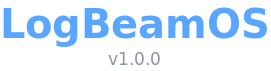
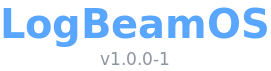
LogBeamOS 1.0.0-1: «Programas instalados» deixa de bloquear o Gestor de Programas; a página de um Flatpak por instalar já abre
«Programas instalados» perguntava ao motor de instalação, uma a uma, pelas cerca de 41 000 entradas do catálogo, no ciclo da janela (1 min 45 s bloqueada na VM, com 1018 pacotes na lista, peças do sistema incluídas). Passa a mostrar os programas de rádio instalados e, a seguir, os pacotes com entrada no menu (uma só pergunta ao dpkg) e os Flatpak instalados: menos de 2 s, 64 programas. A página de um Flatpak não instalado não abria porque o motor dá erro ao pedir a versão instalada de um Flatpak que não está instalado; a versão só se pede quando está instalado, e a linha «Versão» não aparece vazia. «Abrir» num Flatpak usa o atalho do próprio programa, como o menu (o mpv sem ficheiro não abria janela com flatpak run). Explicação do «Instalar tudo» e manual (secção 4) corrigidos nas 4 línguas.

Changed region(s): [[0.3542, 0.7324, 0.6199, 0.9296]]

diff --git a/usr/share/logbeamos/manual/manual-fr.html b/usr/share/logbeamos/manual/manual-fr.html
@@ -84,11 +84,11 @@
 <section id="gestor">
 <h2>4. Installer et supprimer des logiciels</h2>
 <ul>
-  <li>Le <strong>Gestionnaire de logiciels LogBeamOS</strong> recherche, installe et supprime des logiciels. Il remplace le Gestionnaire de logiciels de Linux Mint : il sert pour les logiciels radio et pour tous les autres.</li>
+  <li>Le <strong>Gestionnaire de logiciels LogBeamOS</strong> recherche, installe et supprime des logiciels : les logiciels radio et tous les autres.</li>
   <li>La page d'accueil présente les <strong>Logiciels Radioamateur</strong>, par groupes (modes numériques, carnets de trafic et concours, SDR, satellites, APRS et Winlink, voix numérique, radio et utilitaires), chacun avec son état. <em>Autres logiciels radio</em> regroupe les autres logiciels radio d'Ubuntu.</li>
-  <li>Plus bas se trouvent les autres catégories, comme dans Linux Mint : Internet, son et vidéo, graphisme, bureautique, jeux, Flatpak, logiciels installés et d'autres. La recherche, en haut, trouve n'importe quel logiciel par son nom ou sa description.</li>
+  <li>Plus bas se trouvent les autres catégories : Internet, son et vidéo, graphisme, bureautique, jeux, Flatpak, logiciels installés et d'autres. La recherche, en haut, trouve n'importe quel logiciel par son nom ou sa description.</li>
   <li>Chaque logiciel a sa page, avec la description, la version, la source, l'espace occupé et les boutons <em>Installer</em>, <em>Supprimer</em> et <em>Ouvrir</em>.</li>
-  <li><strong>Logiciels à la demande :</strong> qdmr, SatDump, Not1MM, Gqrx, GNU Radio, GridTracker2, Decodium et wfview ne sont pas installés, pour que l'image soit plus petite, mais leur icône est dans le menu et dans le dossier <strong>Logiciels Radioamateur</strong>. Un clic dessus demande s'il faut l'installer. Le bouton <em>Tout installer</em> les installe tous d'un coup : utile pour préparer la clé USB à la maison, avant une sortie sans réseau.</li>
+  <li><strong>Logiciels à la demande :</strong> qdmr, SatDump, Not1MM, Gqrx, GNU Radio, GridTracker2, Decodium et wfview ne sont pas installés, pour que l'image soit plus petite, mais leur icône est dans le menu et dans le dossier <strong>Logiciels Radioamateur</strong>. Un clic dessus demande s'il faut l'installer. Le bouton <em>Tout installer</em> les installe tous d'un coup, pour qu'ils soient disponibles même sans connexion à Internet.</li>
   <li>Quand un logiciel radio est supprimé, son lanceur quitte le menu et le dossier (les logiciels à la demande gardent leur icône). Pour 4ham, les données et les réglages sont conservés dans <code>/var/lib/logbeamos/guardado</code>.</li>
   <li>N1MM+, Log4OM et WIRES-X (logiciels Windows, via Wine) se suppriment aussi ici. Pour les réinstaller, l'installateur se télécharge sur le site officiel et le gestionnaire l'installe dans Wine.</li>
   <li>Dans le menu, <em>Désinstaller</em> sur un logiciel radio ouvre le gestionnaire sur la page de ce logiciel. Les outils de LogBeamOS (Mettre à jour, Radio et Matériel, ce manuel, TQSL) font partie du système et ne peuvent pas être supprimés.</li>

diff --git a/usr/share/logbeamos/manual/manual-es.html b/usr/share/logbeamos/manual/manual-es.html
@@ -84,11 +84,11 @@
 <section id="gestor">
 <h2>4. Instalar y eliminar programas</h2>
 <ul>
-  <li>El <strong>Gestor de Programas LogBeamOS</strong> busca, instala y elimina programas. Sustituye al Gestor de Programas de Linux Mint: sirve para los programas de radio y para todo el demás software.</li>
+  <li>El <strong>Gestor de Programas LogBeamOS</strong> busca, instala y elimina programas: los programas de radio y todo el demás software.</li>
   <li>En la página de inicio están los <strong>Programas de Radioaficionado</strong>, por grupos (modos digitales, registro y concursos, SDR, satélites, APRS y Winlink, voz digital, radio y utilidades), cada uno con su estado. En <em>Otros programas de radio</em> están los demás programas de radio de Ubuntu.</li>
-  <li>Más abajo están las demás categorías, como en Linux Mint: Internet, sonido y vídeo, gráficos, oficina, juegos, Flatpak, programas instalados y otras. La búsqueda, arriba, encuentra cualquier programa por su nombre o su descripción.</li>
+  <li>Más abajo están las demás categorías: Internet, sonido y vídeo, gráficos, oficina, juegos, Flatpak, programas instalados y otras. La búsqueda, arriba, encuentra cualquier programa por su nombre o su descripción.</li>
   <li>Cada programa tiene su página, con la descripción, la versión, el origen, el espacio que ocupa y los botones <em>Instalar</em>, <em>Eliminar</em> y <em>Abrir</em>.</li>
-  <li><strong>Programas bajo demanda:</strong> qdmr, SatDump, Not1MM, Gqrx, GNU Radio, GridTracker2, Decodium y wfview no vienen instalados, para que la imagen sea más pequeña, pero su icono está en el menú y en la carpeta <strong>Programas de Radioaficionado</strong>. Al pulsarlo, se pregunta si quiere instalarlo. El botón <em>Instalar todo</em> los instala todos de una vez: sirve para preparar el USB en casa, antes de salir sin red.</li>
+  <li><strong>Programas bajo demanda:</strong> qdmr, SatDump, Not1MM, Gqrx, GNU Radio, GridTracker2, Decodium y wfview no vienen instalados, para que la imagen sea más pequeña, pero su icono está en el menú y en la carpeta <strong>Programas de Radioaficionado</strong>. Al pulsarlo, se pregunta si quiere instalarlo. El botón <em>Instalar todo</em> los instala todos de una sola vez, para que estén disponibles incluso sin conexión a Internet.</li>
   <li>Al eliminar un programa de radio, el acceso directo sale del menú y de la carpeta (los programas bajo demanda mantienen su icono). En 4ham, los datos y la configuración se guardan en <code>/var/lib/logbeamos/guardado</code>.</li>
   <li>N1MM+, Log4OM y WIRES-X (programas de Windows, mediante Wine) también se eliminan aquí. Para volver a instalarlos, el instalador se descarga del sitio web oficial y el gestor lo instala en Wine.</li>
   <li>En el menú, <em>Desinstalar</em> en un programa de radio abre el gestor en la página de ese programa. Las herramientas de LogBeamOS (Actualizar, Radio y Equipo, este manual, TQSL) forman parte del sistema y no se eliminan.</li>

diff --git a/usr/share/logbeamos/manual/manual-pt.html b/usr/share/logbeamos/manual/manual-pt.html
@@ -84,11 +84,11 @@
 <section id="gestor">
 <h2>4. Instalar e remover programas</h2>
 <ul>
-  <li>O <strong>Gestor de Programas LogBeamOS</strong> procura, instala e remove programas. Substitui o Gestor de Programas do Linux Mint: serve para os programas de rádio e para todo o outro software.</li>
+  <li>O <strong>Gestor de Programas LogBeamOS</strong> procura, instala e remove programas: os programas de rádio e todo o outro software.</li>
   <li>Na página de entrada estão os <strong>Programas Radioamador</strong>, por grupos (modos digitais, logs e concursos, SDR, satélites, APRS e Winlink, voz digital, rádio e utilitários), cada um com o seu estado. Em <em>Outros programas de rádio</em> estão os restantes programas de rádio do Ubuntu.</li>
-  <li>Mais abaixo estão as outras categorias, como no Linux Mint: Internet, som e vídeo, gráficos, escritório, jogos, Flatpak, programas instalados, e outras. A procura, no topo, encontra qualquer programa pelo nome ou pela descrição.</li>
+  <li>Mais abaixo estão as outras categorias: Internet, som e vídeo, gráficos, escritório, jogos, Flatpak, programas instalados, e outras. A procura, no topo, encontra qualquer programa pelo nome ou pela descrição.</li>
   <li>Cada programa tem a sua página, com a descrição, a versão, a origem, o espaço que ocupa e os botões <em>Instalar</em>, <em>Remover</em> e <em>Abrir</em>.</li>
-  <li><strong>Programas a pedido:</strong> o qdmr, o SatDump, o Not1MM, o Gqrx, o GNU Radio, o GridTracker2, o Decodium e o wfview não vêm instalados, para a imagem ser mais pequena, mas o ícone está no menu e na pasta <strong>Programas Radioamador</strong>. Ao carregar nele, é perguntado se quer instalá-lo. O botão <em>Instalar tudo</em> instala-os todos de uma vez: serve para preparar a pen em casa, antes de uma saída sem rede.</li>
+  <li><strong>Programas a pedido:</strong> o qdmr, o SatDump, o Not1MM, o Gqrx, o GNU Radio, o GridTracker2, o Decodium e o wfview não vêm instalados, para a imagem ser mais pequena, mas o ícone está no menu e na pasta <strong>Programas Radioamador</strong>. Ao carregar nele, é perguntado se quer instalá-lo. O botão <em>Instalar tudo</em> instala-os todos de uma só vez, para ficarem disponíveis mesmo sem ligação à Internet.</li>
   <li>Ao remover um programa de rádio, o atalho sai do menu e da pasta (os programas a pedido mantêm o ícone). No 4ham, os dados e as definições ficam guardados em <code>/var/lib/logbeamos/guardado</code>.</li>
   <li>O N1MM+, o Log4OM e o WIRES-X (programas do Windows, através do Wine) também se removem aqui. Para os instalar de novo, o instalador descarrega-se do site oficial e o Gestor instala-o no Wine.</li>
   <li>No menu, <em>Desinstalar</em> num programa de rádio abre o Gestor na página desse programa. As ferramentas do LogBeamOS (Actualizar, Rádio e Equipamento, este manual, TQSL) fazem parte do sistema e não se removem.</li>

diff --git a/usr/share/logbeamos/manual/manual-en.html b/usr/share/logbeamos/manual/manual-en.html
@@ -84,11 +84,11 @@
 <section id="gestor">
 <h2>4. Installing and removing programs</h2>
 <ul>
-  <li>The <strong>LogBeamOS Software Manager</strong> searches for, installs and removes programs. It replaces the Linux Mint Software Manager: it is for the radio programs and for all the other software.</li>
+  <li>The <strong>LogBeamOS Software Manager</strong> searches for, installs and removes programs: the radio programs and all the other software.</li>
   <li>The home page shows the <strong>Ham Radio Programs</strong>, in groups (digital modes, logging and contests, SDR, satellites, APRS and Winlink, digital voice, radio and utilities), each with its state. <em>Other radio programs</em> holds the remaining radio programs of Ubuntu.</li>
-  <li>Further down are the other categories, as in Linux Mint: Internet, sound and video, graphics, office, games, Flatpak, installed programs and more. The search, at the top, finds any program by its name or description.</li>
+  <li>Further down are the other categories: Internet, sound and video, graphics, office, games, Flatpak, installed programs and more. The search, at the top, finds any program by its name or description.</li>
   <li>Each program has its own page, with its description, version, source, the space it takes and the <em>Install</em>, <em>Remove</em> and <em>Open</em> buttons.</li>
-  <li><strong>On-demand programs:</strong> qdmr, SatDump, Not1MM, Gqrx, GNU Radio, GridTracker2, Decodium and wfview are not installed, so that the image is smaller, but their icon is in the menu and in the <strong>Ham Radio Programs</strong> folder. Clicking it asks whether to install the program. The <em>Install all</em> button installs all of them at once: useful to get the USB drive ready at home, before going out without a network.</li>
+  <li><strong>On-demand programs:</strong> qdmr, SatDump, Not1MM, Gqrx, GNU Radio, GridTracker2, Decodium and wfview are not installed, so that the image is smaller, but their icon is in the menu and in the <strong>Ham Radio Programs</strong> folder. Clicking it asks whether to install the program. The <em>Install all</em> button installs all of them at once, so that they are available even without an Internet connection.</li>
   <li>When a radio program is removed, its launcher leaves the menu and the folder (the on-demand programs keep their icon). For 4ham, the data and settings are kept in <code>/var/lib/logbeamos/guardado</code>.</li>
   <li>N1MM+, Log4OM and WIRES-X (Windows programs, through Wine) are removed here too. To install them again, the installer is downloaded from the official website and the manager installs it into Wine.</li>
   <li>In the menu, <em>Uninstall</em> on a radio program opens the manager on that program's page. The LogBeamOS tools (Update, Radio and Equipment, this manual, TQSL) are part of the system and cannot be removed.</li>

diff --git a/docs/manual/manual-fr.md b/docs/manual/manual-fr.md
@@ -8,7 +8,7 @@
 
 *Distribution Linux pour radioamateurs*
 
-C'est le manuel fourni avec LogBeamOS (LogBeamOS Update 1.0.0).
+C'est le manuel fourni avec LogBeamOS (LogBeamOS Update 1.0.0-1).
 
 [Português](manual-pt.md) · [English](manual-en.md) · [Español](manual-es.md) · **Français**
 
@@ -67,11 +67,11 @@ C'est le manuel fourni avec LogBeamOS (LogBeamOS Update 1.0.0).
 
 ## 4. Installer et supprimer des logiciels
 
-- Le **Gestionnaire de logiciels LogBeamOS** recherche, installe et supprime des logiciels. Il remplace le Gestionnaire de logiciels de Linux Mint : il sert pour les logiciels radio et pour tous les autres.
+- Le **Gestionnaire de logiciels LogBeamOS** recherche, installe et supprime des logiciels : les logiciels radio et tous les autres.
 - La page d'accueil présente les **Logiciels Radioamateur**, par groupes (modes numériques, carnets de trafic et concours, SDR, satellites, APRS et Winlink, voix numérique, radio et utilitaires), chacun avec son état. *Autres logiciels radio* regroupe les autres logiciels radio d'Ubuntu.
-- Plus bas se trouvent les autres catégories, comme dans Linux Mint : Internet, son et vidéo, graphisme, bureautique, jeux, Flatpak, logiciels installés et d'autres. La recherche, en haut, trouve n'importe quel logiciel par son nom ou sa description.
+- Plus bas se trouvent les autres catégories : Internet, son et vidéo, graphisme, bureautique, jeux, Flatpak, logiciels installés et d'autres. La recherche, en haut, trouve n'importe quel logiciel par son nom ou sa description.
 - Chaque logiciel a sa page, avec la description, la version, la source, l'espace occupé et les boutons *Installer*, *Supprimer* et *Ouvrir*.
-- **Logiciels à la demande :** qdmr, SatDump, Not1MM, Gqrx, GNU Radio, GridTracker2, Decodium et wfview ne sont pas installés, pour que l'image soit plus petite, mais leur icône est dans le menu et dans le dossier **Logiciels Radioamateur**. Un clic dessus demande s'il faut l'installer. Le bouton *Tout installer* les installe tous d'un coup : utile pour préparer la clé USB à la maison, avant une sortie sans réseau.
+- **Logiciels à la demande :** qdmr, SatDump, Not1MM, Gqrx, GNU Radio, GridTracker2, Decodium et wfview ne sont pas installés, pour que l'image soit plus petite, mais leur icône est dans le menu et dans le dossier **Logiciels Radioamateur**. Un clic dessus demande s'il faut l'installer. Le bouton *Tout installer* les installe tous d'un coup, pour qu'ils soient disponibles même sans connexion à Internet.
 - Quand un logiciel radio est supprimé, son lanceur quitte le menu et le dossier (les logiciels à la demande gardent leur icône). Pour 4ham, les données et les réglages sont conservés dans `/var/lib/logbeamos/guardado`.
 - N1MM+, Log4OM et WIRES-X (logiciels Windows, via Wine) se suppriment aussi ici. Pour les réinstaller, l'installateur se télécharge sur le site officiel et le gestionnaire l'installe dans Wine.
 - Dans le menu, *Désinstaller* sur un logiciel radio ouvre le gestionnaire sur la page de ce logiciel. Les outils de LogBeamOS (Mettre à jour, Radio et Matériel, ce manuel, TQSL) font partie du système et ne peuvent pas être supprimés.

diff --git a/docs/manual/manual-es.md b/docs/manual/manual-es.md
@@ -8,7 +8,7 @@
 
 *Distribución Linux para radioaficionados*
 
-Este es el manual que acompaña a LogBeamOS (LogBeamOS Update 1.0.0).
+Este es el manual que acompaña a LogBeamOS (LogBeamOS Update 1.0.0-1).
 
 [Português](manual-pt.md) · [English](manual-en.md) · **Español** · [Français](manual-fr.md)
 
@@ -67,11 +67,11 @@ Este es el manual que acompaña a LogBeamOS (LogBeamOS Update 1.0.0).
 
 ## 4. Instalar y eliminar programas
 
-- El **Gestor de Programas LogBeamOS** busca, instala y elimina programas. Sustituye al Gestor de Programas de Linux Mint: sirve para los programas de radio y para todo el demás software.
+- El **Gestor de Programas LogBeamOS** busca, instala y elimina programas: los programas de radio y todo el demás software.
 - En la página de inicio están los **Programas de Radioaficionado**, por grupos (modos digitales, registro y concursos, SDR, satélites, APRS y Winlink, voz digital, radio y utilidades), cada uno con su estado. En *Otros programas de radio* están los demás programas de radio de Ubuntu.
-- Más abajo están las demás categorías, como en Linux Mint: Internet, sonido y vídeo, gráficos, oficina, juegos, Flatpak, programas instalados y otras. La búsqueda, arriba, encuentra cualquier programa por su nombre o su descripción.
+- Más abajo están las demás categorías: Internet, sonido y vídeo, gráficos, oficina, juegos, Flatpak, programas instalados y otras. La búsqueda, arriba, encuentra cualquier programa por su nombre o su descripción.
 - Cada programa tiene su página, con la descripción, la versión, el origen, el espacio que ocupa y los botones *Instalar*, *Eliminar* y *Abrir*.
-- **Programas bajo demanda:** qdmr, SatDump, Not1MM, Gqrx, GNU Radio, GridTracker2, Decodium y wfview no vienen instalados, para que la imagen sea más pequeña, pero su icono está en el menú y en la carpeta **Programas de Radioaficionado**. Al pulsarlo, se pregunta si quiere instalarlo. El botón *Instalar todo* los instala todos de una vez: sirve para preparar el USB en casa, antes de salir sin red.
+- **Programas bajo demanda:** qdmr, SatDump, Not1MM, Gqrx, GNU Radio, GridTracker2, Decodium y wfview no vienen instalados, para que la imagen sea más pequeña, pero su icono está en el menú y en la carpeta **Programas de Radioaficionado**. Al pulsarlo, se pregunta si quiere instalarlo. El botón *Instalar todo* los instala todos de una sola vez, para que estén disponibles incluso sin conexión a Internet.
 - Al eliminar un programa de radio, el acceso directo sale del menú y de la carpeta (los programas bajo demanda mantienen su icono). En 4ham, los datos y la configuración se guardan en `/var/lib/logbeamos/guardado`.
 - N1MM+, Log4OM y WIRES-X (programas de Windows, mediante Wine) también se eliminan aquí. Para volver a instalarlos, el instalador se descarga del sitio web oficial y el gestor lo instala en Wine.
 - En el menú, *Desinstalar* en un programa de radio abre el gestor en la página de ese programa. Las herramientas de LogBeamOS (Actualizar, Radio y Equipo, este manual, TQSL) forman parte del sistema y no se eliminan.

diff --git a/docs/manual/manual-pt.md b/docs/manual/manual-pt.md
@@ -8,7 +8,7 @@
 
 *Distribuição Linux para radioamadores*
 
-Este é o manual que acompanha o LogBeamOS (LogBeamOS Update 1.0.0).
+Este é o manual que acompanha o LogBeamOS (LogBeamOS Update 1.0.0-1).
 
 **Português** · [English](manual-en.md) · [Español](manual-es.md) · [Français](manual-fr.md)
 
@@ -67,11 +67,11 @@ Este é o manual que acompanha o LogBeamOS (LogBeamOS Update 1.0.0).
 
 ## 4. Instalar e remover programas
 
-- O **Gestor de Programas LogBeamOS** procura, instala e remove programas. Substitui o Gestor de Programas do Linux Mint: serve para os programas de rádio e para todo o outro software.
+- O **Gestor de Programas LogBeamOS** procura, instala e remove programas: os programas de rádio e todo o outro software.
 - Na página de entrada estão os **Programas Radioamador**, por grupos (modos digitais, logs e concursos, SDR, satélites, APRS e Winlink, voz digital, rádio e utilitários), cada um com o seu estado. Em *Outros programas de rádio* estão os restantes programas de rádio do Ubuntu.
-- Mais abaixo estão as outras categorias, como no Linux Mint: Internet, som e vídeo, gráficos, escritório, jogos, Flatpak, programas instalados, e outras. A procura, no topo, encontra qualquer programa pelo nome ou pela descrição.
+- Mais abaixo estão as outras categorias: Internet, som e vídeo, gráficos, escritório, jogos, Flatpak, programas instalados, e outras. A procura, no topo, encontra qualquer programa pelo nome ou pela descrição.
 - Cada programa tem a sua página, com a descrição, a versão, a origem, o espaço que ocupa e os botões *Instalar*, *Remover* e *Abrir*.
-- **Programas a pedido:** o qdmr, o SatDump, o Not1MM, o Gqrx, o GNU Radio, o GridTracker2, o Decodium e o wfview não vêm instalados, para a imagem ser mais pequena, mas o ícone está no menu e na pasta **Programas Radioamador**. Ao carregar nele, é perguntado se quer instalá-lo. O botão *Instalar tudo* instala-os todos de uma vez: serve para preparar a pen em casa, antes de uma saída sem rede.
+- **Programas a pedido:** o qdmr, o SatDump, o Not1MM, o Gqrx, o GNU Radio, o GridTracker2, o Decodium e o wfview não vêm instalados, para a imagem ser mais pequena, mas o ícone está no menu e na pasta **Programas Radioamador**. Ao carregar nele, é perguntado se quer instalá-lo. O botão *Instalar tudo* instala-os todos de uma só vez, para ficarem disponíveis mesmo sem ligação à Internet.
 - Ao remover um programa de rádio, o atalho sai do menu e da pasta (os programas a pedido mantêm o ícone). No 4ham, os dados e as definições ficam guardados em `/var/lib/logbeamos/guardado`.
 - O N1MM+, o Log4OM e o WIRES-X (programas do Windows, através do Wine) também se removem aqui. Para os instalar de novo, o instalador descarrega-se do site oficial e o Gestor instala-o no Wine.
 - No menu, *Desinstalar* num programa de rádio abre o Gestor na página desse programa. As ferramentas do LogBeamOS (Actualizar, Rádio e Equipamento, este manual, TQSL) fazem parte do sistema e não se removem.

diff --git a/docs/manual/manual-en.md b/docs/manual/manual-en.md
@@ -8,7 +8,7 @@
 
 *Linux distribution for radio amateurs*
 
-This is the manual that comes with LogBeamOS (LogBeamOS Update 1.0.0).
+This is the manual that comes with LogBeamOS (LogBeamOS Update 1.0.0-1).
 
 [Português](manual-pt.md) · **English** · [Español](manual-es.md) · [Français](manual-fr.md)
 
@@ -67,11 +67,11 @@ This is the manual that comes with LogBeamOS (LogBeamOS Update 1.0.0).
 
 ## 4. Installing and removing programs
 
-- The **LogBeamOS Software Manager** searches for, installs and removes programs. It replaces the Linux Mint Software Manager: it is for the radio programs and for all the other software.
+- The **LogBeamOS Software Manager** searches for, installs and removes programs: the radio programs and all the other software.
 - The home page shows the **Ham Radio Programs**, in groups (digital modes, logging and contests, SDR, satellites, APRS and Winlink, digital voice, radio and utilities), each with its state. *Other radio programs* holds the remaining radio programs of Ubuntu.
-- Further down are the other categories, as in Linux Mint: Internet, sound and video, graphics, office, games, Flatpak, installed programs and more. The search, at the top, finds any program by its name or description.
+- Further down are the other categories: Internet, sound and video, graphics, office, games, Flatpak, installed programs and more. The search, at the top, finds any program by its name or description.
 - Each program has its own page, with its description, version, source, the space it takes and the *Install*, *Remove* and *Open* buttons.
-- **On-demand programs:** qdmr, SatDump, Not1MM, Gqrx, GNU Radio, GridTracker2, Decodium and wfview are not installed, so that the image is smaller, but their icon is in the menu and in the **Ham Radio Programs** folder. Clicking it asks whether to install the program. The *Install all* button installs all of them at once: useful to get the USB drive ready at home, before going out without a network.
+- **On-demand programs:** qdmr, SatDump, Not1MM, Gqrx, GNU Radio, GridTracker2, Decodium and wfview are not installed, so that the image is smaller, but their icon is in the menu and in the **Ham Radio Programs** folder. Clicking it asks whether to install the program. The *Install all* button installs all of them at once, so that they are available even without an Internet connection.
 - When a radio program is removed, its launcher leaves the menu and the folder (the on-demand programs keep their icon). For 4ham, the data and settings are kept in `/var/lib/logbeamos/guardado`.
 - N1MM+, Log4OM and WIRES-X (Windows programs, through Wine) are removed here too. To install them again, the installer is downloaded from the official website and the manager installs it into Wine.
 - In the menu, *Uninstall* on a radio program opens the manager on that program's page. The LogBeamOS tools (Update, Radio and Equipment, this manual, TQSL) are part of the system and cannot be removed.
